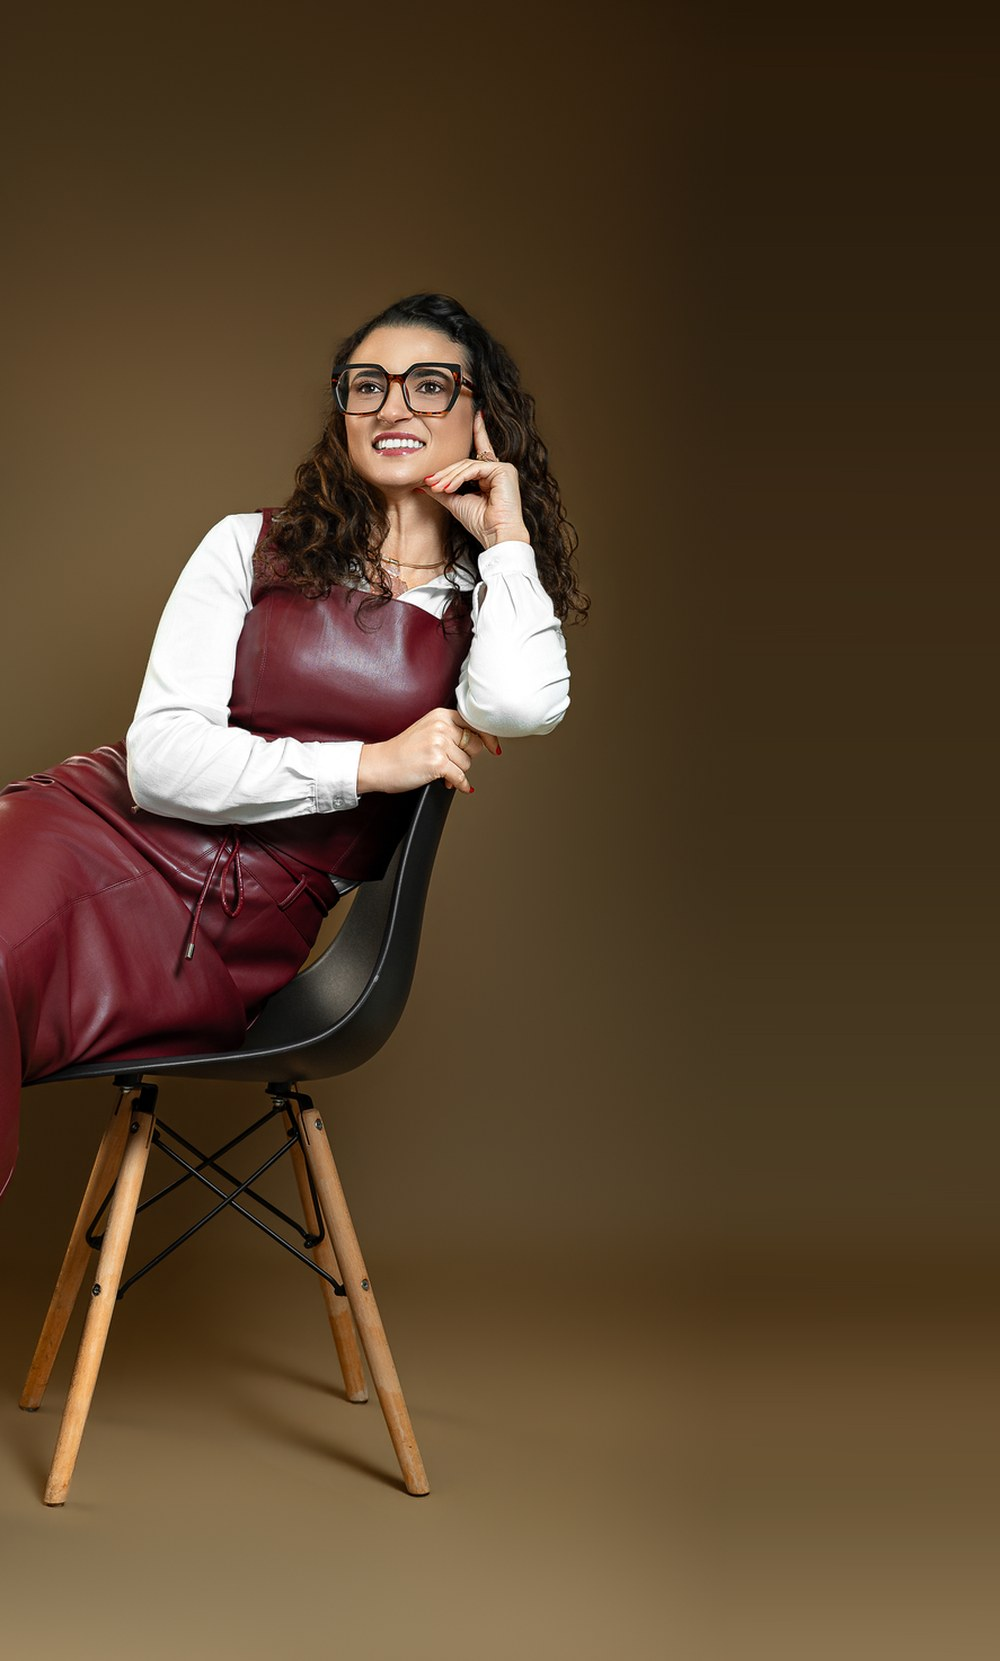
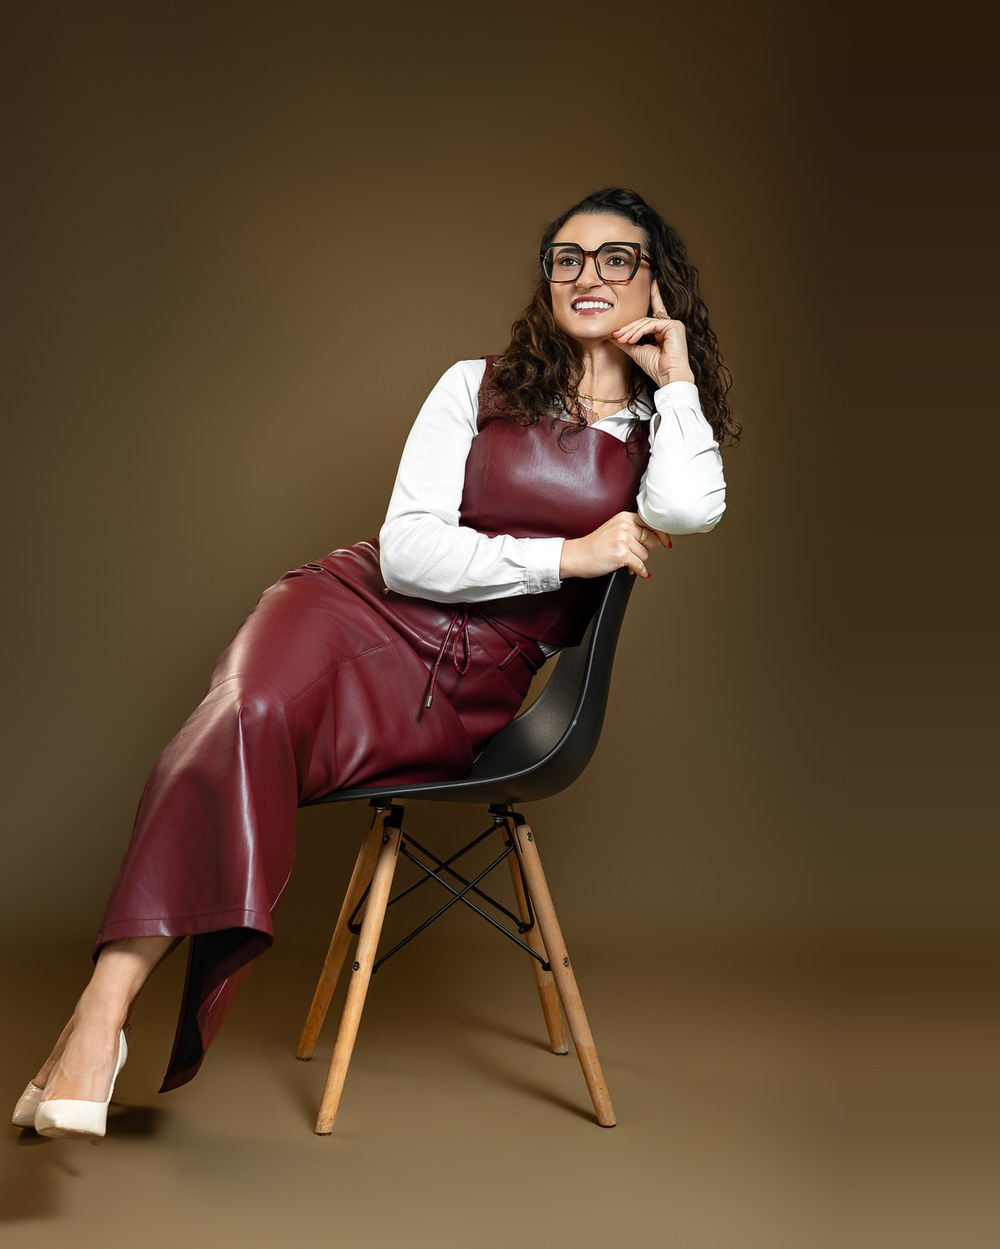
Ajustes no hero: foto centralizada e contraste do botão
- Recorta a foto do hero (4:5) centralizando a Márcia no quadro
- Corrige a cor do texto do botão "Ver materiais" (branco no bordô):
  a regra .nav a sobrescrevia a cor do botão; agora usa :not(.btn)

diff --git a/assets/css/styles.css b/assets/css/styles.css
@@ -152,8 +152,9 @@ p { margin: 0; }
 .brand span { color: var(--primary); }
 
 .nav { display: flex; align-items: center; gap: var(--s1); }
-.nav a { padding: 8px 12px; font-size: var(--fs-sm); font-weight: 500; color: var(--body); border-radius: var(--r-xs); transition: color .15s, background .15s; }
-.nav a:hover { color: var(--ink); background: rgba(31,26,22,.04); }
+.nav a:not(.btn) { padding: 8px 12px; font-size: var(--fs-sm); font-weight: 500; color: var(--body); border-radius: var(--r-xs); transition: color .15s, background .15s; }
+.nav a:not(.btn):hover { color: var(--ink); background: rgba(31,26,22,.04); }
+.nav a.btn--primary { color: #fff; }
 .nav .btn { margin-left: var(--s3); min-height: 40px; padding: 0 18px; }
 
 .nav-toggle {
@@ -178,7 +179,7 @@ p { margin: 0; }
 
 .hero__media { position: relative; }
 .hero__media img {
-  width: 100%; aspect-ratio: 4 / 5; object-fit: cover; object-position: 50% 12%;
+  width: 100%; aspect-ratio: 4 / 5; object-fit: cover; object-position: 50% 45%;
   border-radius: var(--r-lg); box-shadow: var(--shadow-lg);
 }
 .hero__media::after { /* painel creme sutil atrás, alinhado à direita */

diff --git a/index.html b/index.html
@@ -90,7 +90,7 @@
         </div>
 
         <div class="hero__media">
-          <img src="assets/img/marcia-hero-portrait.jpg" width="1000" height="1661"
+          <img src="assets/img/marcia-hero-portrait.jpg" width="1000" height="1249"
                alt="Márcia Luciana, especialista em sexualidade e prevenção ao abuso" fetchpriority="high" />
         </div>
       </div>
